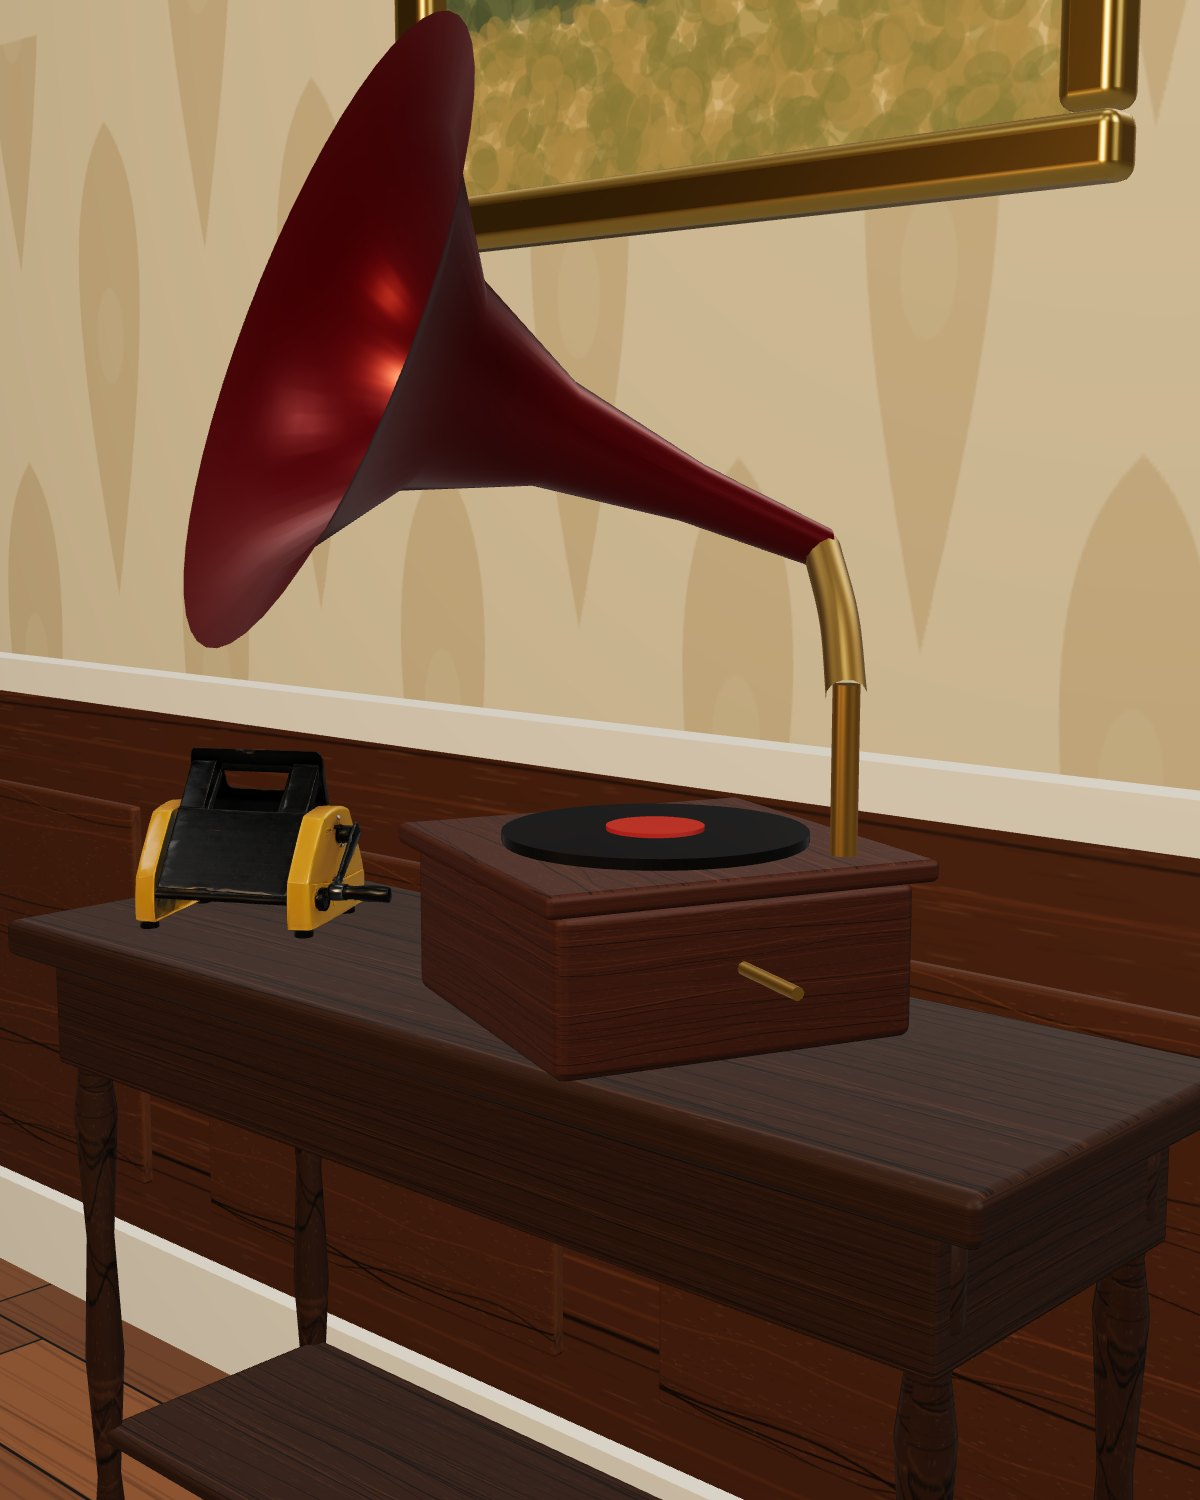
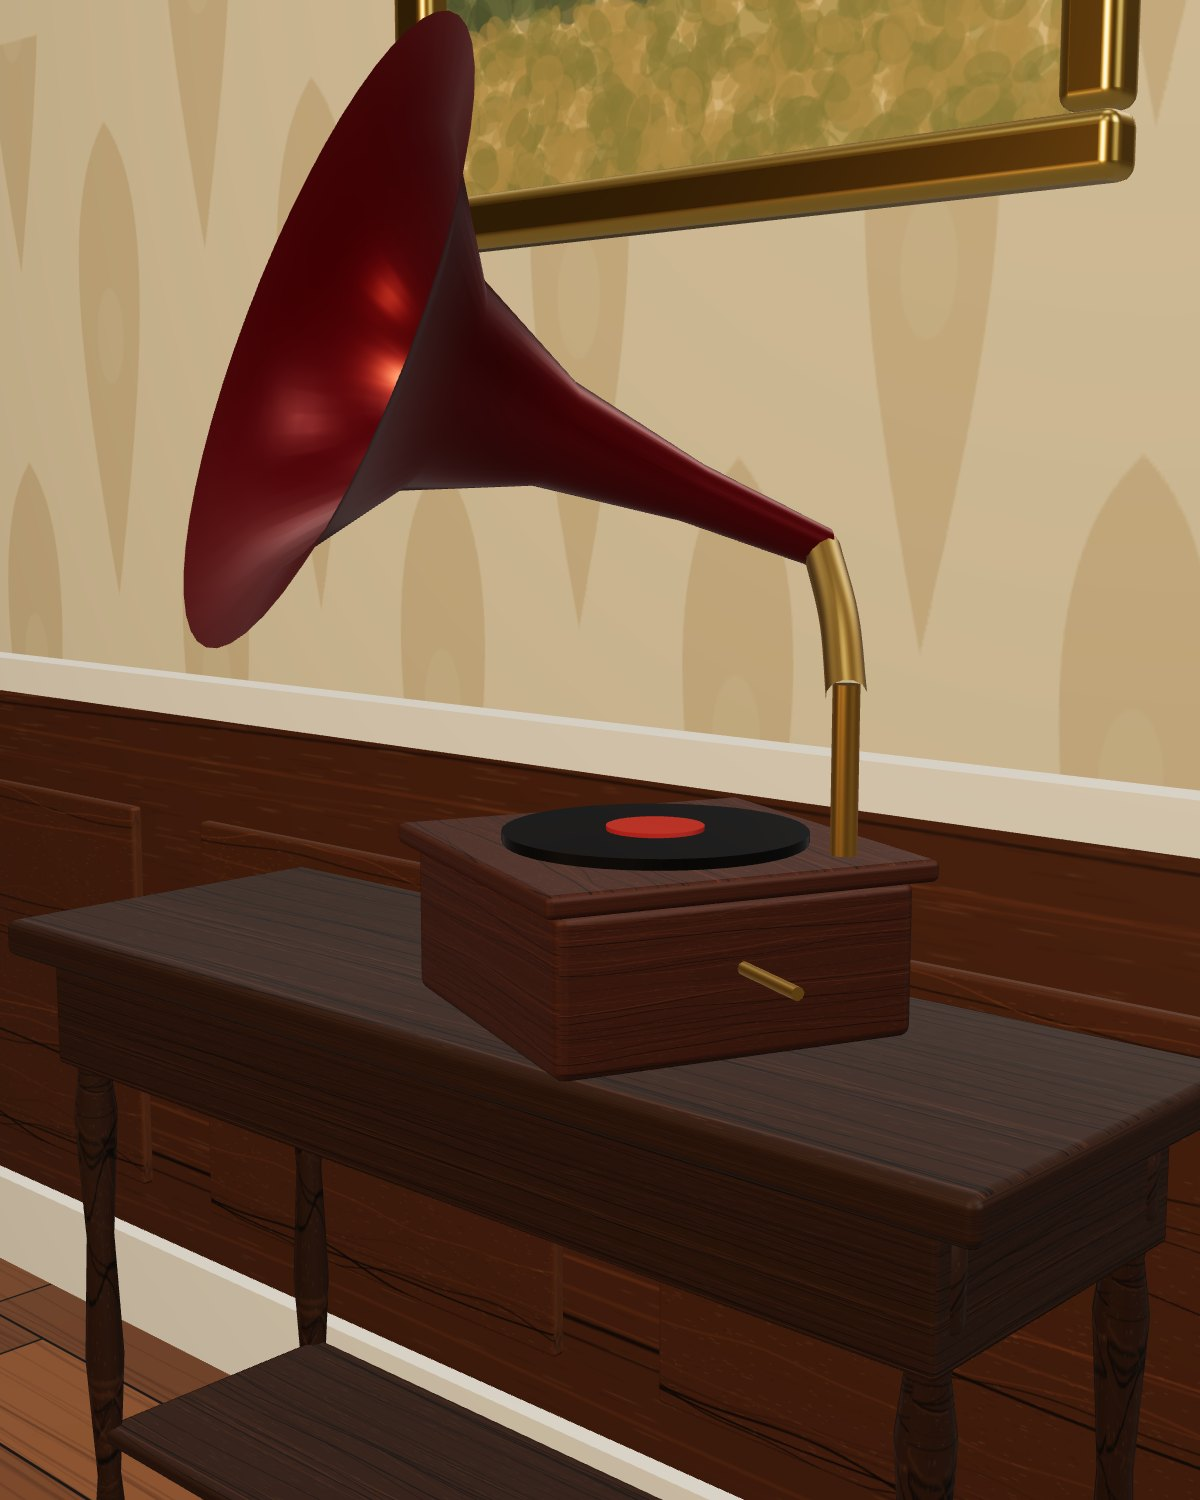
Move a máquina manual de macarrão para a escrivaninha do Escritório
Novo hotspot no Escritório, removido da Sala de estar; hotspot da
escrivaninha reposicionado para não sobrepor. Versão dos dados demo
atualizada para propagar os novos hotspots.

Claude-Session: https://claude.ai/code/session_01XuyPfEcSJBzDNsF9YF45j4

Changed region(s): [[0.0925, 0.4907, 0.3392, 0.644]]

diff --git a/src/data/seed/products.ts b/src/data/seed/products.ts
@@ -553,7 +553,7 @@ const seeds: Seed[] = [
     name: 'Máquina manual de macarrão',
     shortDescription: 'Máquina de abrir massa com manivela, corpo esmaltado em amarelo e rolos metálicos.',
     description:
-      'Máquina de abrir massa de acionamento manual, com corpo esmaltado em amarelo, rolos metálicos e manivela removível. Um objeto de cozinha com forte apelo afetivo, que funciona tanto em uso quanto como peça decorativa em cozinhas e copas. Este item também demonstra um segundo modelo 3D (GLB) enviado pelo cliente: gire, aproxime e veja a peça posicionada no ambiente Sala de estar. As informações abaixo são genéricas e ilustrativas.',
+      'Máquina de abrir massa de acionamento manual, com corpo esmaltado em amarelo, rolos metálicos e manivela removível. Um objeto de cozinha com forte apelo afetivo, que funciona tanto em uso quanto como peça decorativa em cozinhas e copas. Este item também demonstra um segundo modelo 3D (GLB) enviado pelo cliente: gire, aproxime e veja a peça posicionada sobre a escrivaninha do ambiente Escritório. As informações abaixo são genéricas e ilustrativas.',
     price: 480,
     categoryId: 'artigos-para-casa',
     dimensions: { height: 22, width: 30, depth: 24 },

diff --git a/src/data/seed/index.ts b/src/data/seed/index.ts
@@ -18,7 +18,7 @@ export interface DemoDatabase {
   admins: AdminUser[];
 }
 
-export const DB_VERSION = 4;
+export const DB_VERSION = 5;
 
 type RoomManifest = {
   image: string;
@@ -33,7 +33,7 @@ const photo = (id: string, n = 1) => `assets/products/${id}/${n}.jpg`;
 
 // Ajustes finos de hotspots que ficariam sobrepostos (posição calculada automaticamente pelo gerador).
 const hotspotOverrides: Record<string, Partial<{ yaw: number; pitch: number }>> = {
-  'escritorio:escrivaninha-imbuia-anos-50': { yaw: -101, pitch: -24 },
+  'escritorio:escrivaninha-imbuia-anos-50': { yaw: -78, pitch: -27 },
   'sala-de-estar:mesa-lateral-jacaranda': { pitch: -33 },
 };
 

diff --git a/docs/ASSETS.md b/docs/ASSETS.md
@@ -7,7 +7,7 @@ Todos os assets visuais da demo foram **gerados proceduralmente** (sem fotos ou 
 | `public/assets/products/<id>/1..3.jpg` | 3 fotos de estúdio por produto |
 | `public/assets/models/<id>.glb` | Modelos 3D exportados (19 produtos) |
 | `public/assets/models/peca-demo.glb` | **Modelo GLB de exemplo fornecido pelo cliente**, usado no produto "Peça decorativa demonstrativa" e posicionado no ambiente Escritório |
-| `public/assets/models/peca-demo-2.glb` | **Segundo GLB do cliente** (máquina manual de macarrão), posicionado sobre o aparador da Sala de estar. O cubo-padrão sem textura que vinha no arquivo original foi retirado da cena |
+| `public/assets/models/peca-demo-2.glb` | **Segundo GLB do cliente** (máquina manual de macarrão), posicionado sobre a escrivaninha do Escritório. O cubo-padrão sem textura que vinha no arquivo original foi retirado da cena |
 | `public/assets/panoramas/<ambiente>.jpg` | Panoramas equiretangulares 4096×2048 (desktop) e `-mobile.jpg` 2048×1024 |
 | `public/assets/scenes/*.jpg` | Vistas em perspectiva dos ambientes (hero, capas e editoriais) |
 | `src/data/generated/assets-manifest.json` | Caminhos gerados e **hotspots calculados automaticamente** a partir da posição 3D de cada peça |
